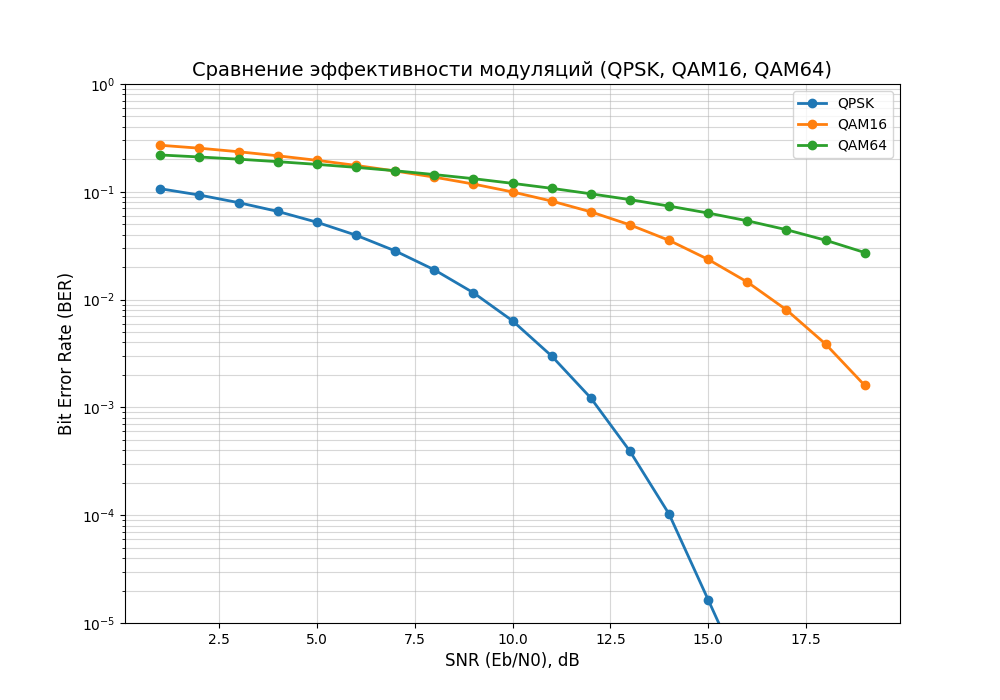
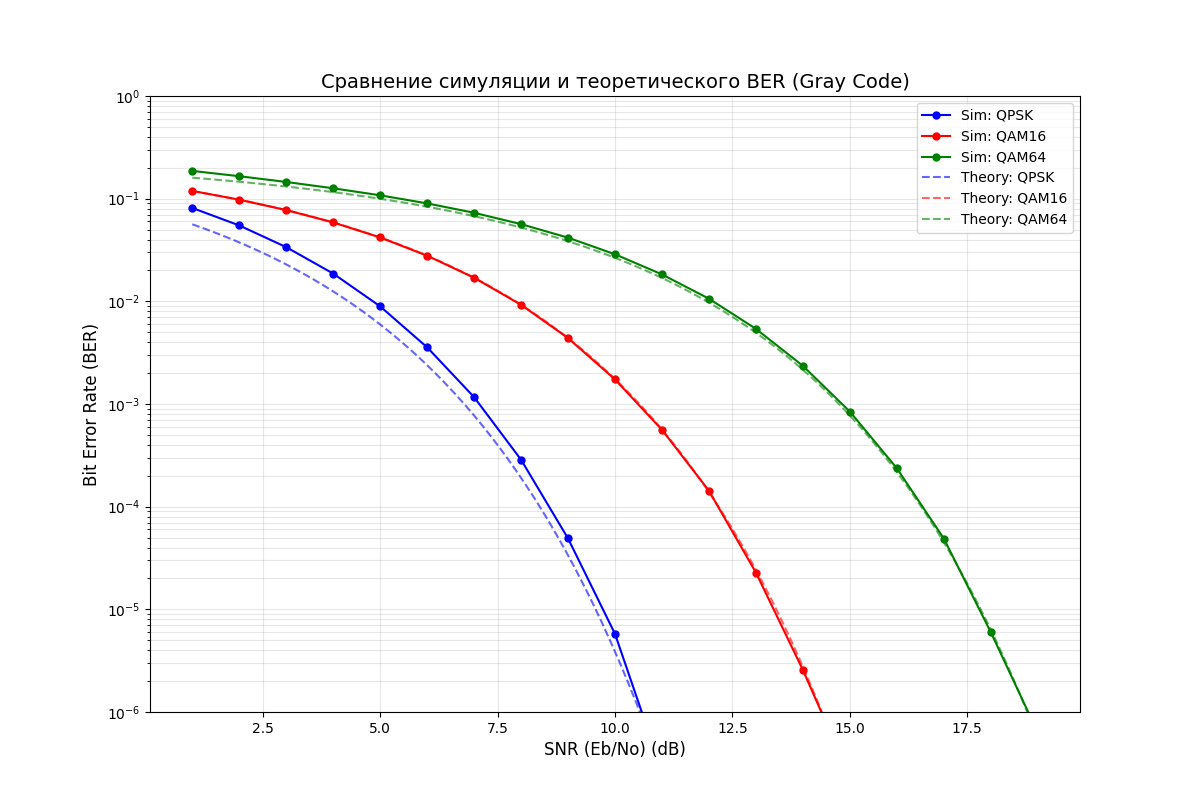
Исправление расчета мощности шума относительно Eb/No
- Добавлен учет количества бит на символ в формулу шума.
- Реализована генерация комплексного шума (разделение мощности на Re и Im).
- Добавлены теоретические кривые.

diff --git a/plot_results/plot.py b/plot_results/plot.py
@@ -1,32 +1,57 @@
 import pandas as pd
 import matplotlib.pyplot as plt
+import numpy as np
+from scipy.special import erfc
+
+def theoretical_ber_qpsk(snr_db):
+    snr = 10**(snr_db / 10)
+    return 0.5 * erfc(np.sqrt(snr))
+
+def theoretical_ber_qam(snr_db, M):
+    snr = 10**(snr_db / 10)
+    k = np.log2(M)
+    return (2/k) * (1 - 1/np.sqrt(M)) * erfc(np.sqrt(3*k*snr / (2*(M-1))))
 
 def plot_ber():
     try:
         df = pd.read_csv('build/results.csv') 
-
     except FileNotFoundError:
         print("Файл results.csv не найден!")
         return
 
-    plt.figure(figsize=(10, 7))
+    plt.figure(figsize=(12, 8))
+    snr_axis = df.columns[1:].astype(float)
+    # Генерируем плавную кривую для теории
+    theory_snr = np.linspace(snr_axis.min(), snr_axis.max(), 100)
 
-    snr = df.columns[1:].astype(float)
+    # Цвета для графиков, чтобы симуляция и теория одного типа модуляции совпадали
+    colors = ['blue', 'red', 'green']
+    mod_names = ["QPSK", "QAM16", "QAM64"]
+
+    # --- 1. Отрисовка экспериментальных данных (Соединенные точки) ---
+    for i, (index, row) in enumerate(df.iterrows()):
+        label = f"Sim: {row.iloc[0]}"
+        # '-o' означает сплошную линию с круглыми маркерами
+        plt.semilogy(snr_axis, row.iloc[1:].astype(float), '-o', 
+                     label=label, color=colors[i], linewidth=1.5, markersize=5)
+
+    # --- 2. Отрисовка теории (Пунктирные линии) ---
+    plt.semilogy(theory_snr, theoretical_ber_qpsk(theory_snr), 
+                 '--', color=colors[0], alpha=0.6, label='Theory: QPSK')
     
-    for index, row in df.iterrows():
-        label = row.iloc[0] 
-        
-        ber = row.iloc[1:].astype(float)
-        
-        plt.semilogy(snr, ber, marker='o', label=label, linewidth=2)
+    plt.semilogy(theory_snr, theoretical_ber_qam(theory_snr, 16), 
+                 '--', color=colors[1], alpha=0.6, label='Theory: QAM16')
+    
+    plt.semilogy(theory_snr, theoretical_ber_qam(theory_snr, 64), 
+                 '--', color=colors[2], alpha=0.6, label='Theory: QAM64')
 
-    plt.grid(True, which="both", ls="-", alpha=0.5)
-    plt.xlabel('SNR (Eb/N0), dB', fontsize=12)
+    # Оформление графика
+    plt.grid(True, which="both", ls="-", alpha=0.3)
+    plt.xlabel('SNR (Eb/No) (dB)', fontsize=12)
     plt.ylabel('Bit Error Rate (BER)', fontsize=12)
-    plt.title('Сравнение эффективности модуляций (QPSK, QAM16, QAM64)', fontsize=14)
+    plt.title('Сравнение симуляции и теоретического BER (Gray Code)', fontsize=14)
     plt.legend()
-    
-    plt.ylim(1e-5, 1)
+    plt.ylim(1e-6, 1)
     
     plt.savefig('ber_plot.png')
     print("График сохранен в файл ber_plot.png")

diff --git a/include/utils.h b/include/utils.h
@@ -31,23 +31,22 @@ inline const complex_signal QPSK_constellation = {
 };
 
 inline const complex_signal QAM16_constellation = {
-    {1.0 / sqrt(10), 1.0 / sqrt(10)},   // 0000
-    {-1.0 / sqrt(10), 1.0 / sqrt(10)},  // 0001
-    {-1.0 / sqrt(10), -1.0 / sqrt(10)}, // 0011
-    {1.0 / sqrt(10), -1.0 / sqrt(10)},  // 0010
-    {3.0 / sqrt(10), 3.0 / sqrt(10)},   // 0100
-    {-3.0 / sqrt(10), 3.0 / sqrt(10)},  // 0101
-    {-3.0 / sqrt(10), -3.0 / sqrt(10)}, // 0111
-    {3.0 / sqrt(10), -3.0 / sqrt(10)},  // 0110
-    {1.0 / sqrt(10), 3.0 / sqrt(10)},   // 1000
-    {-1.0 / sqrt(10), 3.0 / sqrt(10)},  // 1001
-    {-1.0 / sqrt(10), -3.0 / sqrt(10)}, // 1011
-    {1.0 / sqrt(10), -3.0 / sqrt(10)},  // 1010
-    {3.0 / sqrt(10), 1.0 / sqrt(10)},   // 1100
-    {-3.0 / sqrt(10), 1.0 / sqrt(10)},  // 1101
-    {-3.0 / sqrt(10), -1.0 / sqrt(10)}, // 1111
-    {3.0 / sqrt(10), -1.0 / sqrt(10)}   // 1110
-};
+    {-3 / sqrt(10.0), -3 / sqrt(10.0)},
+    {-3 / sqrt(10.0), -1 / sqrt(10.0)},
+    {-3 / sqrt(10.0), 3 / sqrt(10.0)},
+    {-3 / sqrt(10.0), 1 / sqrt(10.0)},
+    {-1 / sqrt(10.0), -3 / sqrt(10.0)},
+    {-1 / sqrt(10.0), -1 / sqrt(10.0)},
+    {-1 / sqrt(10.0), 3 / sqrt(10.0)},
+    {-1 / sqrt(10.0), 1 / sqrt(10.0)},
+    {3 / sqrt(10.0), -3 / sqrt(10.0)},
+    {3 / sqrt(10.0), -1 / sqrt(10.0)},
+    {3 / sqrt(10.0), 3 / sqrt(10.0)},
+    {3 / sqrt(10.0), 1 / sqrt(10.0)},
+    {1 / sqrt(10.0), -3 / sqrt(10.0)},
+    {1 / sqrt(10.0), -1 / sqrt(10.0)},
+    {1 / sqrt(10.0), 3 / sqrt(10.0)},
+    {1 / sqrt(10.0), 1 / sqrt(10.0)}};
 
 inline const complex_signal QAM64_constellation = {
     {-7 / sqrt(42.0), -7 / sqrt(42.0)},

diff --git a/src/gaussian_noise.cpp b/src/gaussian_noise.cpp
@@ -4,30 +4,29 @@ GaussianNoise::GaussianNoise() {} // Constructor
 
 void GaussianNoise::add_noise(const complex_signal *input,
                               complex_signal *output,
-                              int length, double snr_db)
+                              int length, 
+                              double snr_db,
+                              int bits_per_symbol)
 {
     double total_energy = 0.0;
-
-    for (int i = 0; i < length; ++i)
-    {
-        std::complex<double> val = (*input)[i];
-
-        double power_of_sample = std::norm(val);
-
-        total_energy += power_of_sample;
+    for (int i = 0; i < length; ++i) {
+        total_energy += std::norm((*input)[i]);
     }
 
-    double signal_power = total_energy / length;
+    double Es = total_energy / length;
 
-    double snr_linear = pow(10.0, snr_db / 10.0);
-    double noise_power = signal_power / snr_linear;
+    double EbNo_linear = pow(10.0, snr_db / 10.0);
+    double EsNo_linear = EbNo_linear * bits_per_symbol;
+    double N0 = Es / EsNo_linear;
 
+    double sigma = sqrt(N0 / 2.0);
+    
     random_device rd;
     mt19937 gen(rd());
-    normal_distribution<> dist(0.0, sqrt(noise_power));
+    normal_distribution<double> dist(0.0, sigma);
 
-    for (int i = 0; i < length; ++i)
-    {
-        (*output)[i] = (*input)[i] + dist(gen);
+    for (int i = 0; i < length; ++i) {
+        complex<double> noise(dist(gen), dist(gen));
+        (*output)[i] = (*input)[i] + noise;
     }
 }

diff --git a/include/gaussian_noise.h b/include/gaussian_noise.h
@@ -8,6 +8,8 @@ public:
     GaussianNoise(); // Constructor
     void add_noise(const complex_signal *input,
                    complex_signal *output,
-                   int length, double snr_db);
+                   int length,
+                   double snr_db,
+                   int bits_per_symbol);
 };
 #endif // GAUSSIAN_NOISE_H

diff --git a/main.cpp b/main.cpp
@@ -23,7 +23,7 @@ vector<int> generate_bit_stream(int length = 1008)
 int main()
 {
     int iterations = 1000;
-    int bits_count = 10002; // Кратно 2, 4 и 6
+    int bits_count = 30000; // Кратно 2, 4 и 6
 
     vector<double> snr_values;
     for (double snr = 1; snr < 20; snr++)
@@ -62,7 +62,7 @@ int main()
                 complex_signal modulated = modulator.modulate(input_bits);
 
                 complex_signal noisy(modulated.size());
-                noise.add_noise(&modulated, &noisy, modulated.size(), snr);
+                noise.add_noise(&modulated, &noisy, modulated.size(), snr, modulator.bits_per_symbol);
 
                 vector<int> decoded_bits = demodulator.demodulate(&noisy);
 